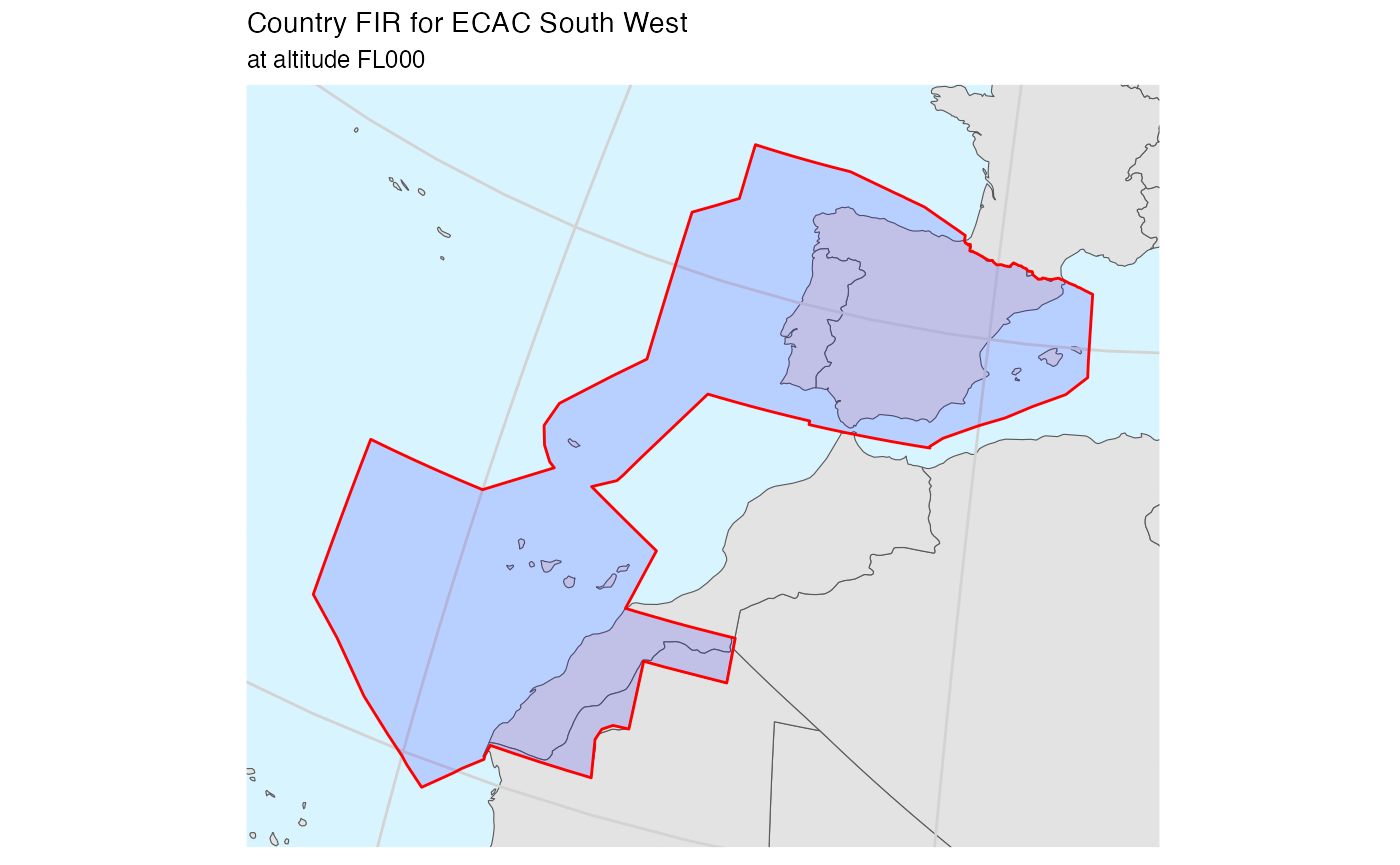
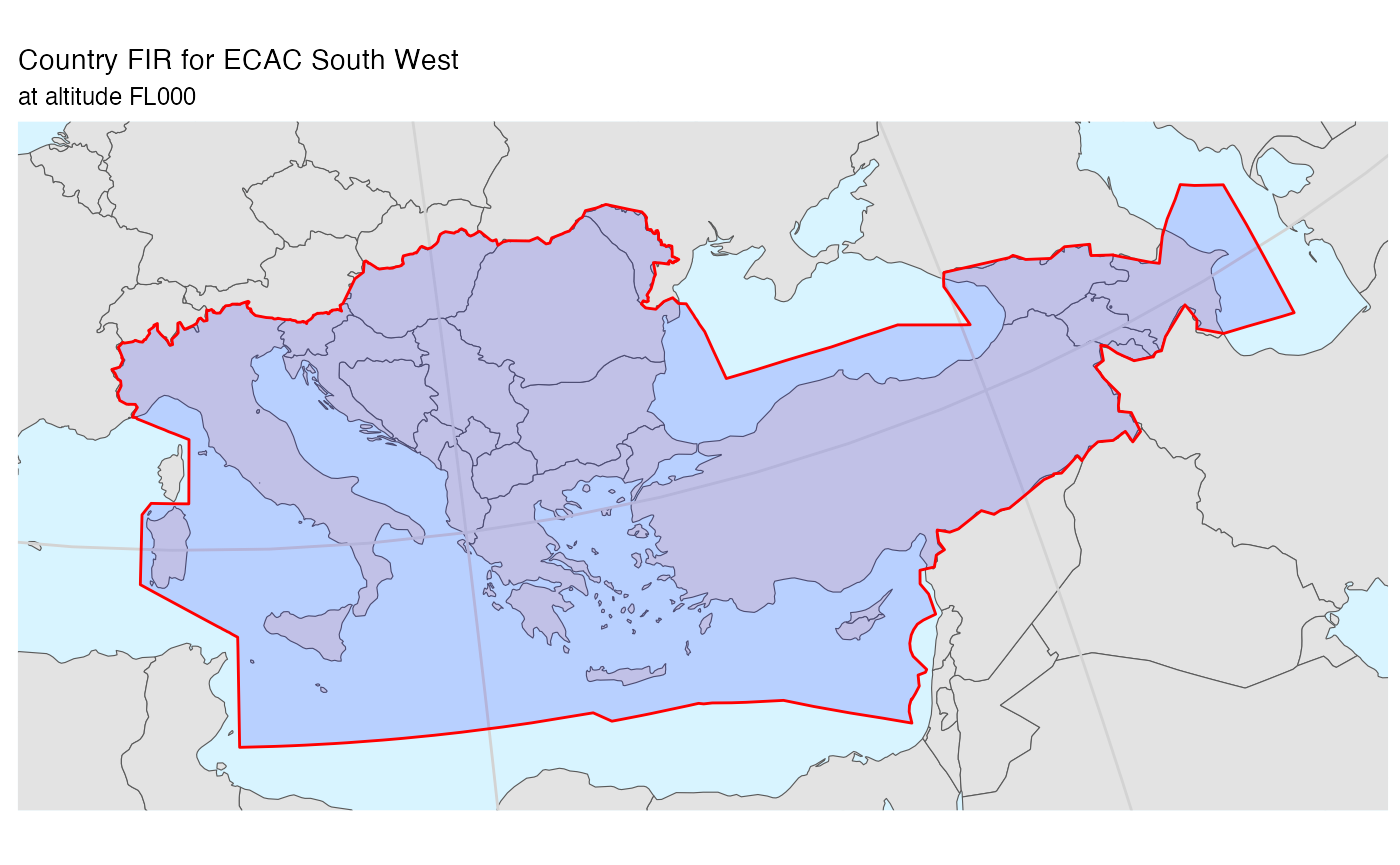
Built site for pruatlas: 0.0.1.9000@a89209d

diff --git a/articles/eurocontrol-maps.html b/articles/eurocontrol-maps.html
@@ -215,16 +215,7 @@
 <h3 class="hasAnchor">
 <a href="#ecac-north-west" class="anchor"></a>ECAC North West</h3>
 <div class="sourceCode" id="cb8"><pre class="downlit sourceCode r">
-<code class="sourceCode R"><span class="va">ecac_nw_codes</span> <span class="op">&lt;-</span> <span class="fu"><a href="https://rdrr.io/r/base/c.html">c</a></span><span class="op">(</span><span class="st">"EB"</span>, <span class="st">"ED"</span>, <span class="st">"EG"</span>, <span class="st">"EH"</span>, <span class="st">"EI"</span>, <span class="st">"EK"</span>,
-             <span class="co"># "EL", &lt;-- covered by Belgium</span>
-             <span class="st">"LF"</span>,
-             <span class="co"># "LN", &lt;-- covered by France</span>
-             <span class="st">"LO"</span>, <span class="st">"LS"</span><span class="op">)</span>
-
-<span class="va">ecac_nw</span> <span class="op">&lt;-</span> <span class="va">firs_nm_406</span> <span class="op">%&gt;%</span>
-  <span class="fu">dplyr</span><span class="fu">::</span><span class="fu"><a href="https://dplyr.tidyverse.org/reference/filter.html">filter</a></span><span class="op">(</span><span class="va">icao</span> <span class="op">%in%</span> <span class="va">ecac_nw_codes</span>, <span class="va">min_fl</span> <span class="op">&lt;=</span> <span class="fl">0</span>, <span class="fl">0</span> <span class="op">&lt;=</span> <span class="va">max_fl</span><span class="op">)</span> <span class="op">%&gt;%</span>
-  <span class="co"># exclude oceanic portion</span>
-  <span class="fu">dplyr</span><span class="fu">::</span><span class="fu"><a href="https://dplyr.tidyverse.org/reference/filter.html">filter</a></span><span class="op">(</span><span class="op">!</span><span class="op">(</span><span class="va">id</span> <span class="op">%in%</span> <span class="fu"><a href="https://rdrr.io/r/base/c.html">c</a></span><span class="op">(</span><span class="st">"EGGXFIR"</span>, <span class="st">"EGGX"</span><span class="op">)</span><span class="op">)</span><span class="op">)</span> <span class="op">%&gt;%</span> 
+<code class="sourceCode R"><span class="va">ecac_nw</span> <span class="op">&lt;-</span> <span class="fu"><a href="../reference/ecac_northwest.html">ecac_northwest</a></span><span class="op">(</span><span class="op">)</span> <span class="op">%&gt;%</span> 
   <span class="fu">sf</span><span class="fu">::</span><span class="fu"><a href="https://r-spatial.github.io/sf/reference/st_as_sf.html">st_as_sf</a></span><span class="op">(</span><span class="op">)</span> <span class="op">%&gt;%</span>
   <span class="fu">sf</span><span class="fu">::</span><span class="fu"><a href="https://r-spatial.github.io/sf/reference/geos_combine.html">st_union</a></span><span class="op">(</span><span class="op">)</span> <span class="op">%&gt;%</span>
   <span class="fu">sf</span><span class="fu">::</span><span class="fu"><a href="https://r-spatial.github.io/sf/reference/sf.html">st_sf</a></span><span class="op">(</span>geometry <span class="op">=</span> <span class="va">.</span>,
@@ -259,15 +250,7 @@
 <h3 class="hasAnchor">
 <a href="#ecac-south-west" class="anchor"></a>ECAC South West</h3>
 <div class="sourceCode" id="cb10"><pre class="downlit sourceCode r">
-<code class="sourceCode R"><span class="va">ecac_sw_codes</span> <span class="op">&lt;-</span> <span class="fu"><a href="https://rdrr.io/r/base/c.html">c</a></span><span class="op">(</span><span class="st">"GC"</span>,
-             <span class="co"># "GE", &lt;-- no specific FIR for Ceuta &amp; Melilla</span>
-             <span class="st">"LE"</span>, <span class="st">"LP"</span>,
-             <span class="co"># "LX", &lt;-- no specific FIR for Gilbratar</span>
-             <span class="cn">NULL</span><span class="op">)</span>
-<span class="va">ecac_sw</span> <span class="op">&lt;-</span> <span class="fu">pruatlas</span><span class="fu">::</span><span class="va"><a href="../reference/firs_nm_406.html">firs_nm_406</a></span> <span class="op">%&gt;%</span> 
-  <span class="fu">dplyr</span><span class="fu">::</span><span class="fu"><a href="https://dplyr.tidyverse.org/reference/filter.html">filter</a></span><span class="op">(</span><span class="va">icao</span> <span class="op">%in%</span> <span class="va">ecac_sw_codes</span>, <span class="va">min_fl</span> <span class="op">&lt;=</span> <span class="fl">0</span>, <span class="fl">0</span> <span class="op">&lt;=</span> <span class="va">max_fl</span><span class="op">)</span> <span class="op">%&gt;%</span>
-  <span class="co"># exclude oceanic portion (Santa Maria)</span>
-  <span class="fu">dplyr</span><span class="fu">::</span><span class="fu"><a href="https://dplyr.tidyverse.org/reference/filter.html">filter</a></span><span class="op">(</span><span class="op">!</span><span class="op">(</span><span class="va">id</span> <span class="op">%in%</span> <span class="fu"><a href="https://rdrr.io/r/base/c.html">c</a></span><span class="op">(</span><span class="st">"LPPOFIR"</span><span class="op">)</span><span class="op">)</span><span class="op">)</span> <span class="op">%&gt;%</span> 
+<code class="sourceCode R"><span class="va">ecac_sw</span> <span class="op">&lt;-</span> <span class="fu"><a href="../reference/ecac_southeast.html">ecac_southeast</a></span><span class="op">(</span><span class="op">)</span> <span class="op">%&gt;%</span> 
   <span class="fu">sf</span><span class="fu">::</span><span class="fu"><a href="https://r-spatial.github.io/sf/reference/st_as_sf.html">st_as_sf</a></span><span class="op">(</span><span class="op">)</span> <span class="op">%&gt;%</span>
   <span class="fu">sf</span><span class="fu">::</span><span class="fu"><a href="https://r-spatial.github.io/sf/reference/geos_combine.html">st_union</a></span><span class="op">(</span><span class="op">)</span> <span class="op">%&gt;%</span>
   <span class="fu">sf</span><span class="fu">::</span><span class="fu"><a href="https://r-spatial.github.io/sf/reference/sf.html">st_sf</a></span><span class="op">(</span>geometry <span class="op">=</span> <span class="va">.</span>,
@@ -285,12 +268,7 @@
 <h3 class="hasAnchor">
 <a href="#ecac-north-east" class="anchor"></a>ECAC North East</h3>
 <div class="sourceCode" id="cb11"><pre class="downlit sourceCode r">
-<code class="sourceCode R"><span class="va">ecac_ne_codes</span> <span class="op">&lt;-</span> <span class="fu"><a href="https://rdrr.io/r/base/c.html">c</a></span><span class="op">(</span><span class="st">"EE"</span>, <span class="st">"EF"</span>, <span class="st">"EN"</span>, <span class="st">"EP"</span>, <span class="st">"ES"</span>, <span class="st">"EV"</span>, <span class="st">"EY"</span>,
-             <span class="st">"LK"</span>, <span class="st">"LZ"</span>, <span class="st">"UK"</span><span class="op">)</span>
-<span class="va">ecac_ne</span> <span class="op">&lt;-</span> <span class="fu">pruatlas</span><span class="fu">::</span><span class="va"><a href="../reference/firs_nm_406.html">firs_nm_406</a></span> <span class="op">%&gt;%</span> 
-  <span class="fu">dplyr</span><span class="fu">::</span><span class="fu"><a href="https://dplyr.tidyverse.org/reference/filter.html">filter</a></span><span class="op">(</span><span class="va">icao</span> <span class="op">%in%</span> <span class="va">ecac_ne_codes</span>, <span class="va">min_fl</span> <span class="op">&lt;=</span> <span class="fl">0</span>, <span class="fl">0</span> <span class="op">&lt;=</span> <span class="va">max_fl</span><span class="op">)</span> <span class="op">%&gt;%</span>
-  <span class="co"># exclude oceanic BODO</span>
-  <span class="fu">dplyr</span><span class="fu">::</span><span class="fu"><a href="https://dplyr.tidyverse.org/reference/filter.html">filter</a></span><span class="op">(</span><span class="op">!</span><span class="op">(</span><span class="va">id</span> <span class="op">%in%</span> <span class="fu"><a href="https://rdrr.io/r/base/c.html">c</a></span><span class="op">(</span><span class="st">"ENOBFIR"</span><span class="op">)</span><span class="op">)</span><span class="op">)</span> <span class="op">%&gt;%</span> 
+<code class="sourceCode R"><span class="va">ecac_ne</span> <span class="op">&lt;-</span> <span class="fu"><a href="../reference/ecac_northeast.html">ecac_northeast</a></span><span class="op">(</span><span class="op">)</span> <span class="op">%&gt;%</span> 
   <span class="fu">sf</span><span class="fu">::</span><span class="fu"><a href="https://r-spatial.github.io/sf/reference/st_as_sf.html">st_as_sf</a></span><span class="op">(</span><span class="op">)</span> <span class="op">%&gt;%</span>
   <span class="fu">sf</span><span class="fu">::</span><span class="fu"><a href="https://r-spatial.github.io/sf/reference/geos_combine.html">st_union</a></span><span class="op">(</span><span class="op">)</span> <span class="op">%&gt;%</span>
   <span class="fu">sf</span><span class="fu">::</span><span class="fu"><a href="https://r-spatial.github.io/sf/reference/sf.html">st_sf</a></span><span class="op">(</span>geometry <span class="op">=</span> <span class="va">.</span>,
@@ -300,7 +278,9 @@
             <span class="op">)</span> <span class="op">%&gt;%</span> 
   <span class="fu"><a href="https://dplyr.tidyverse.org/reference/mutate.html">mutate</a></span><span class="op">(</span>min_fl <span class="op">=</span> <span class="fl">0</span>, max_fl <span class="op">=</span> <span class="fl">999</span><span class="op">)</span>
 <span class="co">#&gt; although coordinates are longitude/latitude, st_union assumes that they are planar</span>
-<span class="fu"><a href="../reference/plot_country_fir.html">plot_country_fir</a></span><span class="op">(</span>icao_id <span class="op">=</span> <span class="st">"ECAC_NE"</span>, name <span class="op">=</span> <span class="st">"ECAC North East"</span>, firs <span class="op">=</span> <span class="va">ecac_ne</span><span class="op">)</span>
+<span class="fu"><a href="../reference/plot_country_fir.html">plot_country_fir</a></span><span class="op">(</span>icao_id <span class="op">=</span> <span class="st">"ECAC_NE"</span>,
+                 name <span class="op">=</span> <span class="st">"ECAC North East"</span>,
+                 firs <span class="op">=</span> <span class="va">ecac_ne</span><span class="op">)</span>
 <span class="co">#&gt; although coordinates are longitude/latitude, st_union assumes that they are planar</span></code></pre></div>
 <p><img src="eurocontrol-maps_files/figure-html/ecac-ne-1.png" width="700"></p>
 </div>
@@ -308,11 +288,7 @@
 <h3 class="hasAnchor">
 <a href="#ecac-south-east" class="anchor"></a>ECAC South East</h3>
 <div class="sourceCode" id="cb12"><pre class="downlit sourceCode r">
-<code class="sourceCode R"><span class="va">ecac_se</span> <span class="op">&lt;-</span> <span class="fu"><a href="https://rdrr.io/r/base/c.html">c</a></span><span class="op">(</span><span class="st">"LA"</span>, <span class="st">"LB"</span>, <span class="st">"LC"</span>, <span class="st">"LD"</span>, <span class="st">"LG"</span>, <span class="st">"LH"</span>, <span class="st">"LI"</span>,
-             <span class="st">"LJ"</span>, <span class="st">"LM"</span>, <span class="st">"LQ"</span>, <span class="st">"LR"</span>, <span class="st">"LT"</span>, <span class="st">"LU"</span>, <span class="st">"LW"</span>,
-             <span class="st">"LY"</span>, <span class="st">"UB"</span>, <span class="st">"UD"</span>, <span class="st">"UG"</span><span class="op">)</span> <span class="op">%&gt;%</span> 
-  <span class="fu">purrr</span><span class="fu">::</span><span class="fu"><a href="https://purrr.tidyverse.org/reference/map.html">map_dfr</a></span><span class="op">(</span><span class="op">~</span> <span class="fu"><a href="https://rdrr.io/r/base/message.html">suppressMessages</a></span><span class="op">(</span>
-    <span class="fu"><a href="../reference/country_fir.html">country_fir</a></span><span class="op">(</span><span class="fu">pruatlas</span><span class="fu">::</span><span class="va"><a href="../reference/firs_nm_406.html">firs_nm_406</a></span>, icao_id <span class="op">=</span> <span class="va">.x</span><span class="op">)</span><span class="op">)</span><span class="op">)</span> <span class="op">%&gt;%</span> 
+<code class="sourceCode R"><span class="va">ecac_se</span> <span class="op">&lt;-</span> <span class="fu"><a href="../reference/ecac_southeast.html">ecac_southeast</a></span><span class="op">(</span><span class="op">)</span> <span class="op">%&gt;%</span> 
     <span class="fu">sf</span><span class="fu">::</span><span class="fu"><a href="https://r-spatial.github.io/sf/reference/st_as_sf.html">st_as_sf</a></span><span class="op">(</span><span class="op">)</span> <span class="op">%&gt;%</span>
     <span class="fu">sf</span><span class="fu">::</span><span class="fu"><a href="https://r-spatial.github.io/sf/reference/geos_combine.html">st_union</a></span><span class="op">(</span><span class="op">)</span> <span class="op">%&gt;%</span>
   <span class="fu">sf</span><span class="fu">::</span><span class="fu"><a href="https://r-spatial.github.io/sf/reference/sf.html">st_sf</a></span><span class="op">(</span>geometry <span class="op">=</span> <span class="va">.</span>,

diff --git a/reference/ecac_southhwest.html b/reference/ecac_southhwest.html
@@ -6,7 +6,7 @@
 <meta http-equiv="X-UA-Compatible" content="IE=edge">
 <meta name="viewport" content="width=device-width, initial-scale=1.0">
 
-<title>ECAC Oceanic FIRs — ecac_oceanic • pruatlas</title>
+<title>ECAC South West FIRs — ecac_southhwest • pruatlas</title>
 
 
 <!-- jquery -->
@@ -39,8 +39,8 @@
 
 
 
-<meta property="og:title" content="ECAC Oceanic FIRs — ecac_oceanic" />
-<meta property="og:description" content="ECAC Oceanic FIRs" />
+<meta property="og:title" content="ECAC South West FIRs — ecac_southhwest" />
+<meta property="og:description" content="ECAC South West FIRs" />
 
 
 
@@ -120,16 +120,16 @@
 <div class="row">
   <div class="col-md-9 contents">
     <div class="page-header">
-    <h1>ECAC Oceanic FIRs</h1>
+    <h1>ECAC South West FIRs</h1>
     <small class="dont-index">Source: <a href='https://github.com/euctrl-pru/pruatlas/blob/master/R/ecac.R'><code>R/ecac.R</code></a></small>
-    <div class="hidden name"><code>ecac_oceanic.Rd</code></div>
+    <div class="hidden name"><code>ecac_southhwest.Rd</code></div>
     </div>
 
     <div class="ref-description">
-    <p>ECAC Oceanic FIRs</p>
+    <p>ECAC South West FIRs</p>
     </div>
 
-    <pre class="usage"><span class='fu'>ecac_oceanic</span><span class='op'>(</span>firs <span class='op'>=</span> <span class='fu'>pruatlas</span><span class='fu'>::</span><span class='va'><a href='firs_nm_406.html'>firs_nm_406</a></span><span class='op'>)</span></pre>
+    <pre class="usage"><span class='fu'>ecac_southhwest</span><span class='op'>(</span>firs <span class='op'>=</span> <span class='fu'>pruatlas</span><span class='fu'>::</span><span class='va'><a href='firs_nm_406.html'>firs_nm_406</a></span><span class='op'>)</span></pre>
 
     <h2 class="hasAnchor" id="arguments"><a class="anchor" href="#arguments"></a>Arguments</h2>
     <table class="ref-arguments">
@@ -142,11 +142,11 @@
 
     <h2 class="hasAnchor" id="value"><a class="anchor" href="#value"></a>Value</h2>
 
-    <p>the subset of FIRs composing ECAC Oceanic</p>
+    <p>the subset of FIRs composing ECAC South West</p>
 
     <h2 class="hasAnchor" id="examples"><a class="anchor" href="#examples"></a>Examples</h2>
     <pre class="examples"><div class='input'><span class='kw'>if</span> <span class='op'>(</span><span class='cn'>FALSE</span><span class='op'>)</span> <span class='op'>{</span>
-<span class='fu'>ecac_oceanic</span><span class='op'>(</span><span class='op'>)</span>
+<span class='fu'>ecac_southhwest</span><span class='op'>(</span><span class='op'>)</span>
 <span class='op'>}</span>
 </div></pre>
   </div>

diff --git a/reference/ecac_northeast.html b/reference/ecac_northeast.html
@@ -6,7 +6,7 @@
 <meta http-equiv="X-UA-Compatible" content="IE=edge">
 <meta name="viewport" content="width=device-width, initial-scale=1.0">
 
-<title>ECAC Oceanic FIRs — ecac_oceanic • pruatlas</title>
+<title>ECAC North East FIRs — ecac_northeast • pruatlas</title>
 
 
 <!-- jquery -->
@@ -39,8 +39,8 @@
 
 
 
-<meta property="og:title" content="ECAC Oceanic FIRs — ecac_oceanic" />
-<meta property="og:description" content="ECAC Oceanic FIRs" />
+<meta property="og:title" content="ECAC North East FIRs — ecac_northeast" />
+<meta property="og:description" content="ECAC North East FIRs" />
 
 
 
@@ -120,16 +120,16 @@
 <div class="row">
   <div class="col-md-9 contents">
     <div class="page-header">
-    <h1>ECAC Oceanic FIRs</h1>
+    <h1>ECAC North East FIRs</h1>
     <small class="dont-index">Source: <a href='https://github.com/euctrl-pru/pruatlas/blob/master/R/ecac.R'><code>R/ecac.R</code></a></small>
-    <div class="hidden name"><code>ecac_oceanic.Rd</code></div>
+    <div class="hidden name"><code>ecac_northeast.Rd</code></div>
     </div>
 
     <div class="ref-description">
-    <p>ECAC Oceanic FIRs</p>
+    <p>ECAC North East FIRs</p>
     </div>
 
-    <pre class="usage"><span class='fu'>ecac_oceanic</span><span class='op'>(</span>firs <span class='op'>=</span> <span class='fu'>pruatlas</span><span class='fu'>::</span><span class='va'><a href='firs_nm_406.html'>firs_nm_406</a></span><span class='op'>)</span></pre>
+    <pre class="usage"><span class='fu'>ecac_northeast</span><span class='op'>(</span>firs <span class='op'>=</span> <span class='fu'>pruatlas</span><span class='fu'>::</span><span class='va'><a href='firs_nm_406.html'>firs_nm_406</a></span><span class='op'>)</span></pre>
 
     <h2 class="hasAnchor" id="arguments"><a class="anchor" href="#arguments"></a>Arguments</h2>
     <table class="ref-arguments">
@@ -142,11 +142,11 @@
 
     <h2 class="hasAnchor" id="value"><a class="anchor" href="#value"></a>Value</h2>
 
-    <p>the subset of FIRs composing ECAC Oceanic</p>
+    <p>the subset of FIRs composing ECAC North East</p>
 
     <h2 class="hasAnchor" id="examples"><a class="anchor" href="#examples"></a>Examples</h2>
     <pre class="examples"><div class='input'><span class='kw'>if</span> <span class='op'>(</span><span class='cn'>FALSE</span><span class='op'>)</span> <span class='op'>{</span>
-<span class='fu'>ecac_oceanic</span><span class='op'>(</span><span class='op'>)</span>
+<span class='fu'>ecac_northeast</span><span class='op'>(</span><span class='op'>)</span>
 <span class='op'>}</span>
 </div></pre>
   </div>

diff --git a/reference/ecac_northwest.html b/reference/ecac_northwest.html
@@ -6,7 +6,7 @@
 <meta http-equiv="X-UA-Compatible" content="IE=edge">
 <meta name="viewport" content="width=device-width, initial-scale=1.0">
 
-<title>ECAC Oceanic FIRs — ecac_oceanic • pruatlas</title>
+<title>ECAC North West FIRs — ecac_northwest • pruatlas</title>
 
 
 <!-- jquery -->
@@ -39,8 +39,8 @@
 
 
 
-<meta property="og:title" content="ECAC Oceanic FIRs — ecac_oceanic" />
-<meta property="og:description" content="ECAC Oceanic FIRs" />
+<meta property="og:title" content="ECAC North West FIRs — ecac_northwest" />
+<meta property="og:description" content="ECAC North West FIRs" />
 
 
 
@@ -120,16 +120,16 @@
 <div class="row">
   <div class="col-md-9 contents">
     <div class="page-header">
-    <h1>ECAC Oceanic FIRs</h1>
+    <h1>ECAC North West FIRs</h1>
     <small class="dont-index">Source: <a href='https://github.com/euctrl-pru/pruatlas/blob/master/R/ecac.R'><code>R/ecac.R</code></a></small>
-    <div class="hidden name"><code>ecac_oceanic.Rd</code></div>
+    <div class="hidden name"><code>ecac_northwest.Rd</code></div>
     </div>
 
     <div class="ref-description">
-    <p>ECAC Oceanic FIRs</p>
+    <p>ECAC North West FIRs</p>
     </div>
 
-    <pre class="usage"><span class='fu'>ecac_oceanic</span><span class='op'>(</span>firs <span class='op'>=</span> <span class='fu'>pruatlas</span><span class='fu'>::</span><span class='va'><a href='firs_nm_406.html'>firs_nm_406</a></span><span class='op'>)</span></pre>
+    <pre class="usage"><span class='fu'>ecac_northwest</span><span class='op'>(</span>firs <span class='op'>=</span> <span class='fu'>pruatlas</span><span class='fu'>::</span><span class='va'><a href='firs_nm_406.html'>firs_nm_406</a></span><span class='op'>)</span></pre>
 
     <h2 class="hasAnchor" id="arguments"><a class="anchor" href="#arguments"></a>Arguments</h2>
     <table class="ref-arguments">
@@ -142,11 +142,11 @@
 
     <h2 class="hasAnchor" id="value"><a class="anchor" href="#value"></a>Value</h2>
 
-    <p>the subset of FIRs composing ECAC Oceanic</p>
+    <p>the subset of FIRs composing ECAC North West</p>
 
     <h2 class="hasAnchor" id="examples"><a class="anchor" href="#examples"></a>Examples</h2>
     <pre class="examples"><div class='input'><span class='kw'>if</span> <span class='op'>(</span><span class='cn'>FALSE</span><span class='op'>)</span> <span class='op'>{</span>
-<span class='fu'>ecac_oceanic</span><span class='op'>(</span><span class='op'>)</span>
+<span class='fu'>ecac_northwest</span><span class='op'>(</span><span class='op'>)</span>
 <span class='op'>}</span>
 </div></pre>
   </div>

diff --git a/reference/ecac_southeast.html b/reference/ecac_southeast.html
@@ -6,7 +6,7 @@
 <meta http-equiv="X-UA-Compatible" content="IE=edge">
 <meta name="viewport" content="width=device-width, initial-scale=1.0">
 
-<title>ECAC Oceanic FIRs — ecac_oceanic • pruatlas</title>
+<title>ECAC South East FIRs — ecac_southeast • pruatlas</title>
 
 
 <!-- jquery -->
@@ -39,8 +39,8 @@
 
 
 
-<meta property="og:title" content="ECAC Oceanic FIRs — ecac_oceanic" />
-<meta property="og:description" content="ECAC Oceanic FIRs" />
+<meta property="og:title" content="ECAC South East FIRs — ecac_southeast" />
+<meta property="og:description" content="ECAC South East FIRs" />
 
 
 
@@ -120,16 +120,16 @@
 <div class="row">
   <div class="col-md-9 contents">
     <div class="page-header">
-    <h1>ECAC Oceanic FIRs</h1>
+    <h1>ECAC South East FIRs</h1>
     <small class="dont-index">Source: <a href='https://github.com/euctrl-pru/pruatlas/blob/master/R/ecac.R'><code>R/ecac.R</code></a></small>
-    <div class="hidden name"><code>ecac_oceanic.Rd</code></div>
+    <div class="hidden name"><code>ecac_southeast.Rd</code></div>
     </div>
 
     <div class="ref-description">
-    <p>ECAC Oceanic FIRs</p>
+    <p>ECAC South East FIRs</p>
     </div>
 
-    <pre class="usage"><span class='fu'>ecac_oceanic</span><span class='op'>(</span>firs <span class='op'>=</span> <span class='fu'>pruatlas</span><span class='fu'>::</span><span class='va'><a href='firs_nm_406.html'>firs_nm_406</a></span><span class='op'>)</span></pre>
+    <pre class="usage"><span class='fu'>ecac_southeast</span><span class='op'>(</span>firs <span class='op'>=</span> <span class='fu'>pruatlas</span><span class='fu'>::</span><span class='va'><a href='firs_nm_406.html'>firs_nm_406</a></span><span class='op'>)</span></pre>
 
     <h2 class="hasAnchor" id="arguments"><a class="anchor" href="#arguments"></a>Arguments</h2>
     <table class="ref-arguments">
@@ -142,11 +142,11 @@
 
     <h2 class="hasAnchor" id="value"><a class="anchor" href="#value"></a>Value</h2>
 
-    <p>the subset of FIRs composing ECAC Oceanic</p>
+    <p>the subset of FIRs composing ECAC South East</p>
 
     <h2 class="hasAnchor" id="examples"><a class="anchor" href="#examples"></a>Examples</h2>
     <pre class="examples"><div class='input'><span class='kw'>if</span> <span class='op'>(</span><span class='cn'>FALSE</span><span class='op'>)</span> <span class='op'>{</span>
-<span class='fu'>ecac_oceanic</span><span class='op'>(</span><span class='op'>)</span>
+<span class='fu'>ecac_southeast</span><span class='op'>(</span><span class='op'>)</span>
 <span class='op'>}</span>
 </div></pre>
   </div>

diff --git a/reference/index.html b/reference/index.html
@@ -175,9 +175,33 @@
       </tr><tr>
         
         <td>
+          <p><code><a href="ecac_northeast.html">ecac_northeast()</a></code> </p>
+        </td>
+        <td><p>ECAC North East FIRs</p></td>
+      </tr><tr>
+        
+        <td>
+          <p><code><a href="ecac_northwest.html">ecac_northwest()</a></code> </p>
+        </td>
+        <td><p>ECAC North West FIRs</p></td>
+      </tr><tr>
+        
+        <td>
           <p><code><a href="ecac_oceanic.html">ecac_oceanic()</a></code> </p>
         </td>
         <td><p>ECAC Oceanic FIRs</p></td>
+      </tr><tr>
+        
+        <td>
+          <p><code><a href="ecac_southeast.html">ecac_southeast()</a></code> </p>
+        </td>
+        <td><p>ECAC South East FIRs</p></td>
+      </tr><tr>
+        
+        <td>
+          <p><code><a href="ecac_southhwest.html">ecac_southhwest()</a></code> </p>
+        </td>
+        <td><p>ECAC South West FIRs</p></td>
       </tr><tr>
         
         <td>
